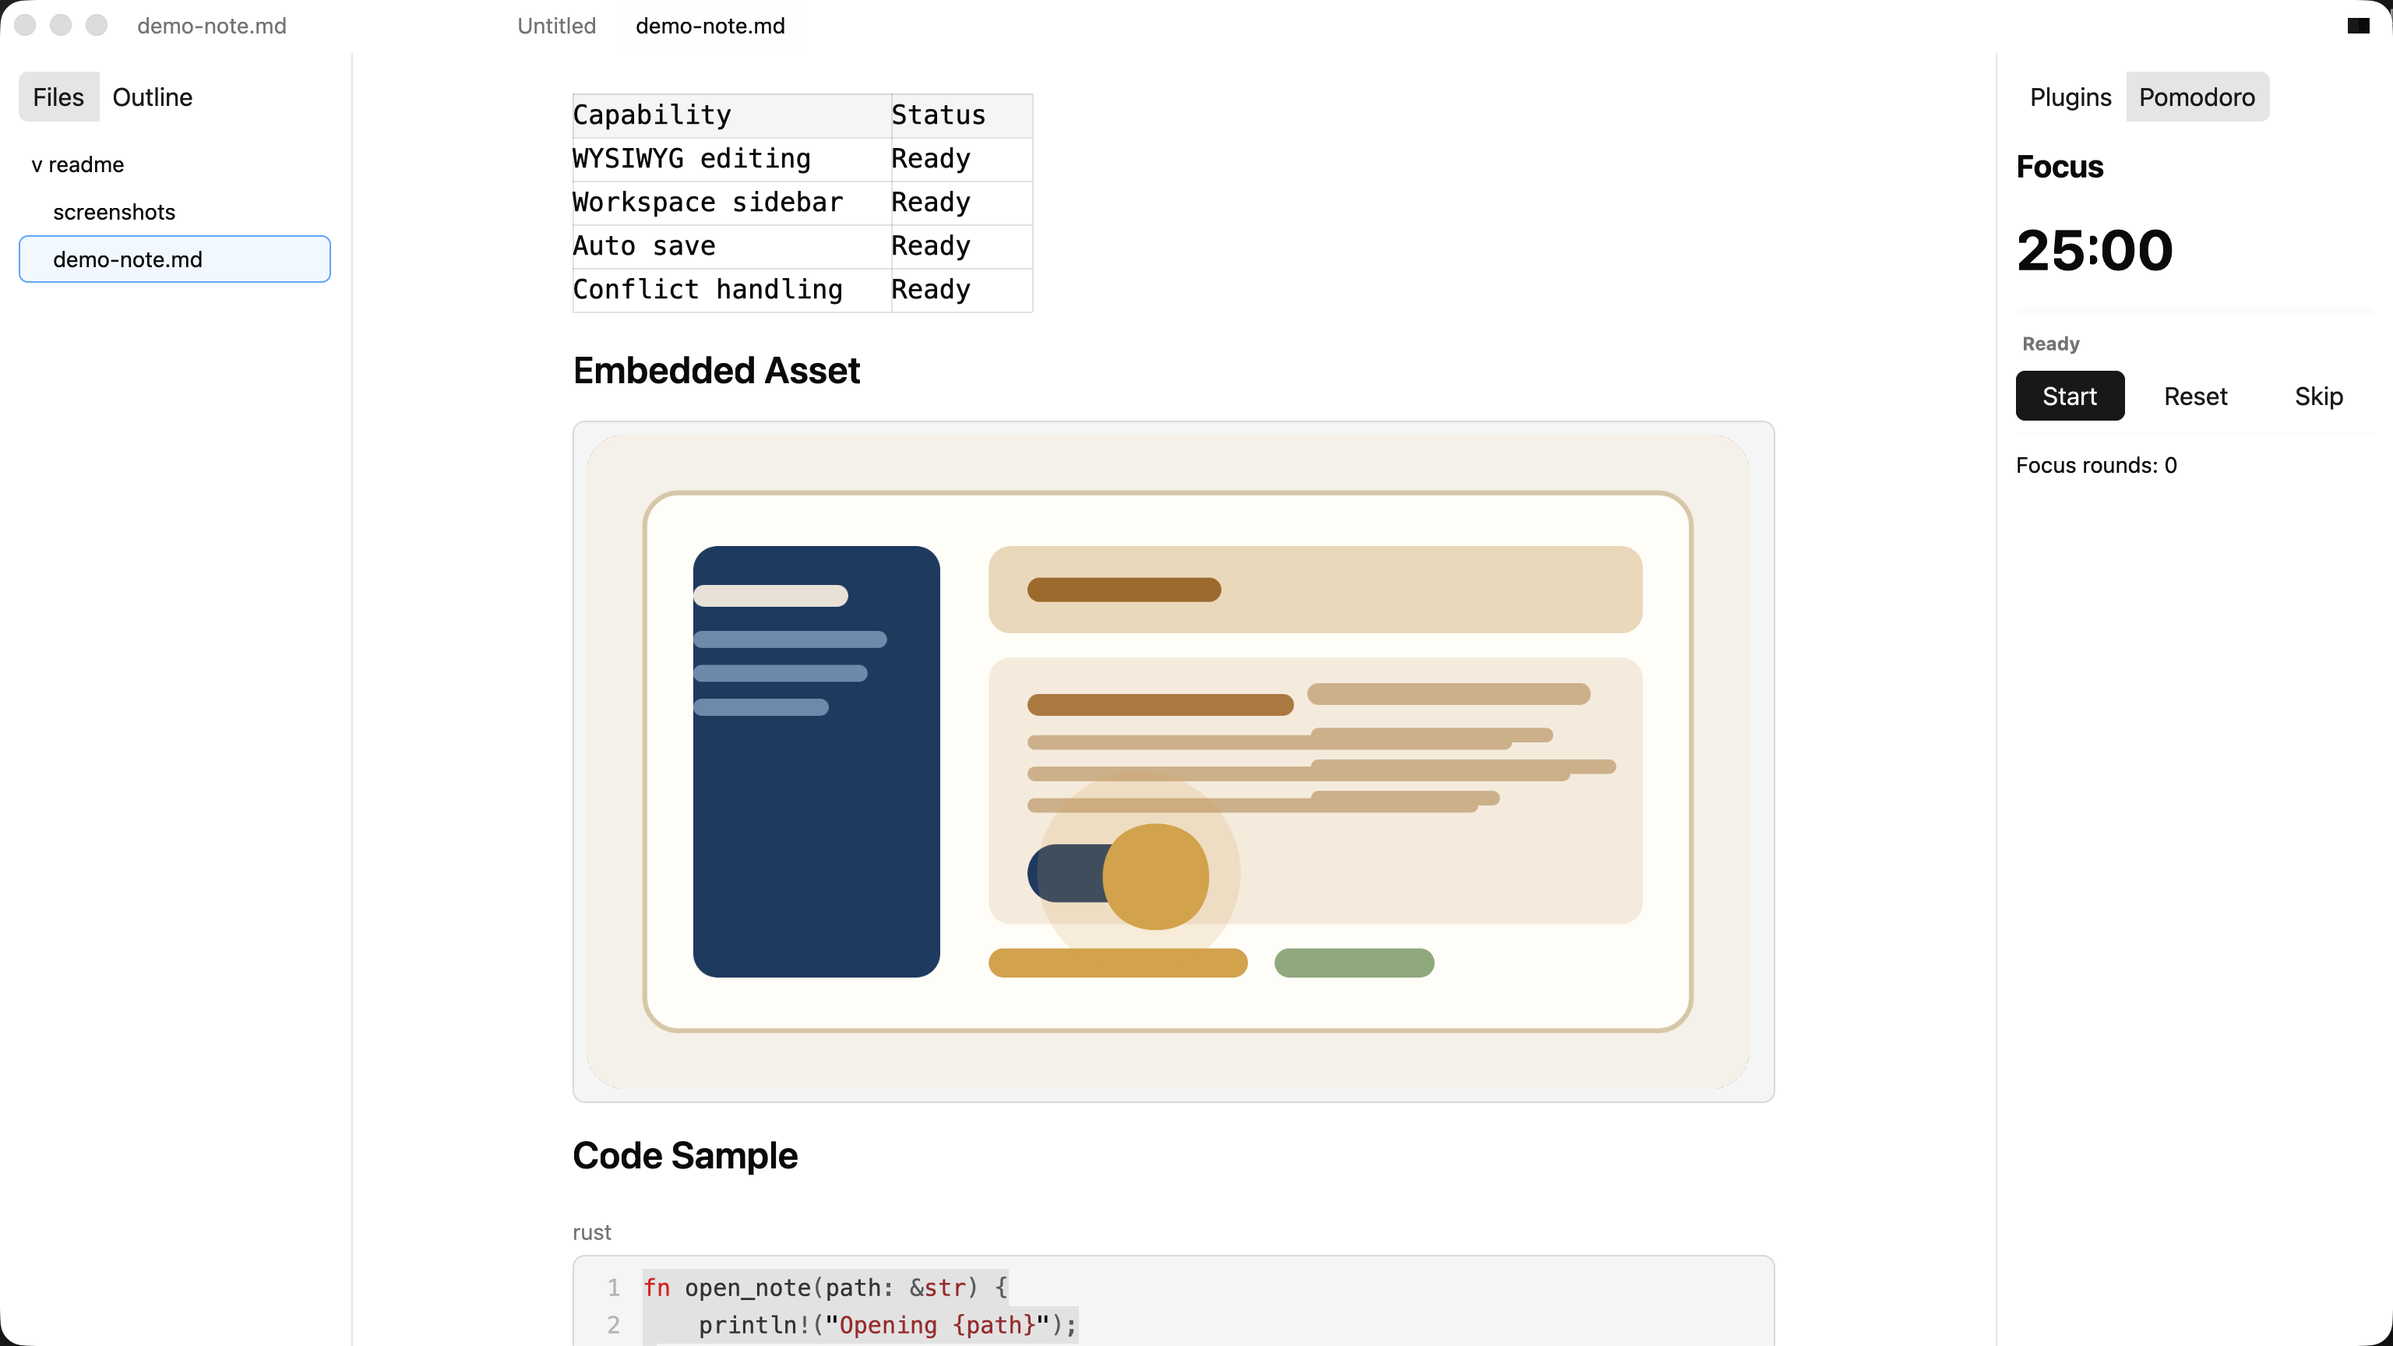
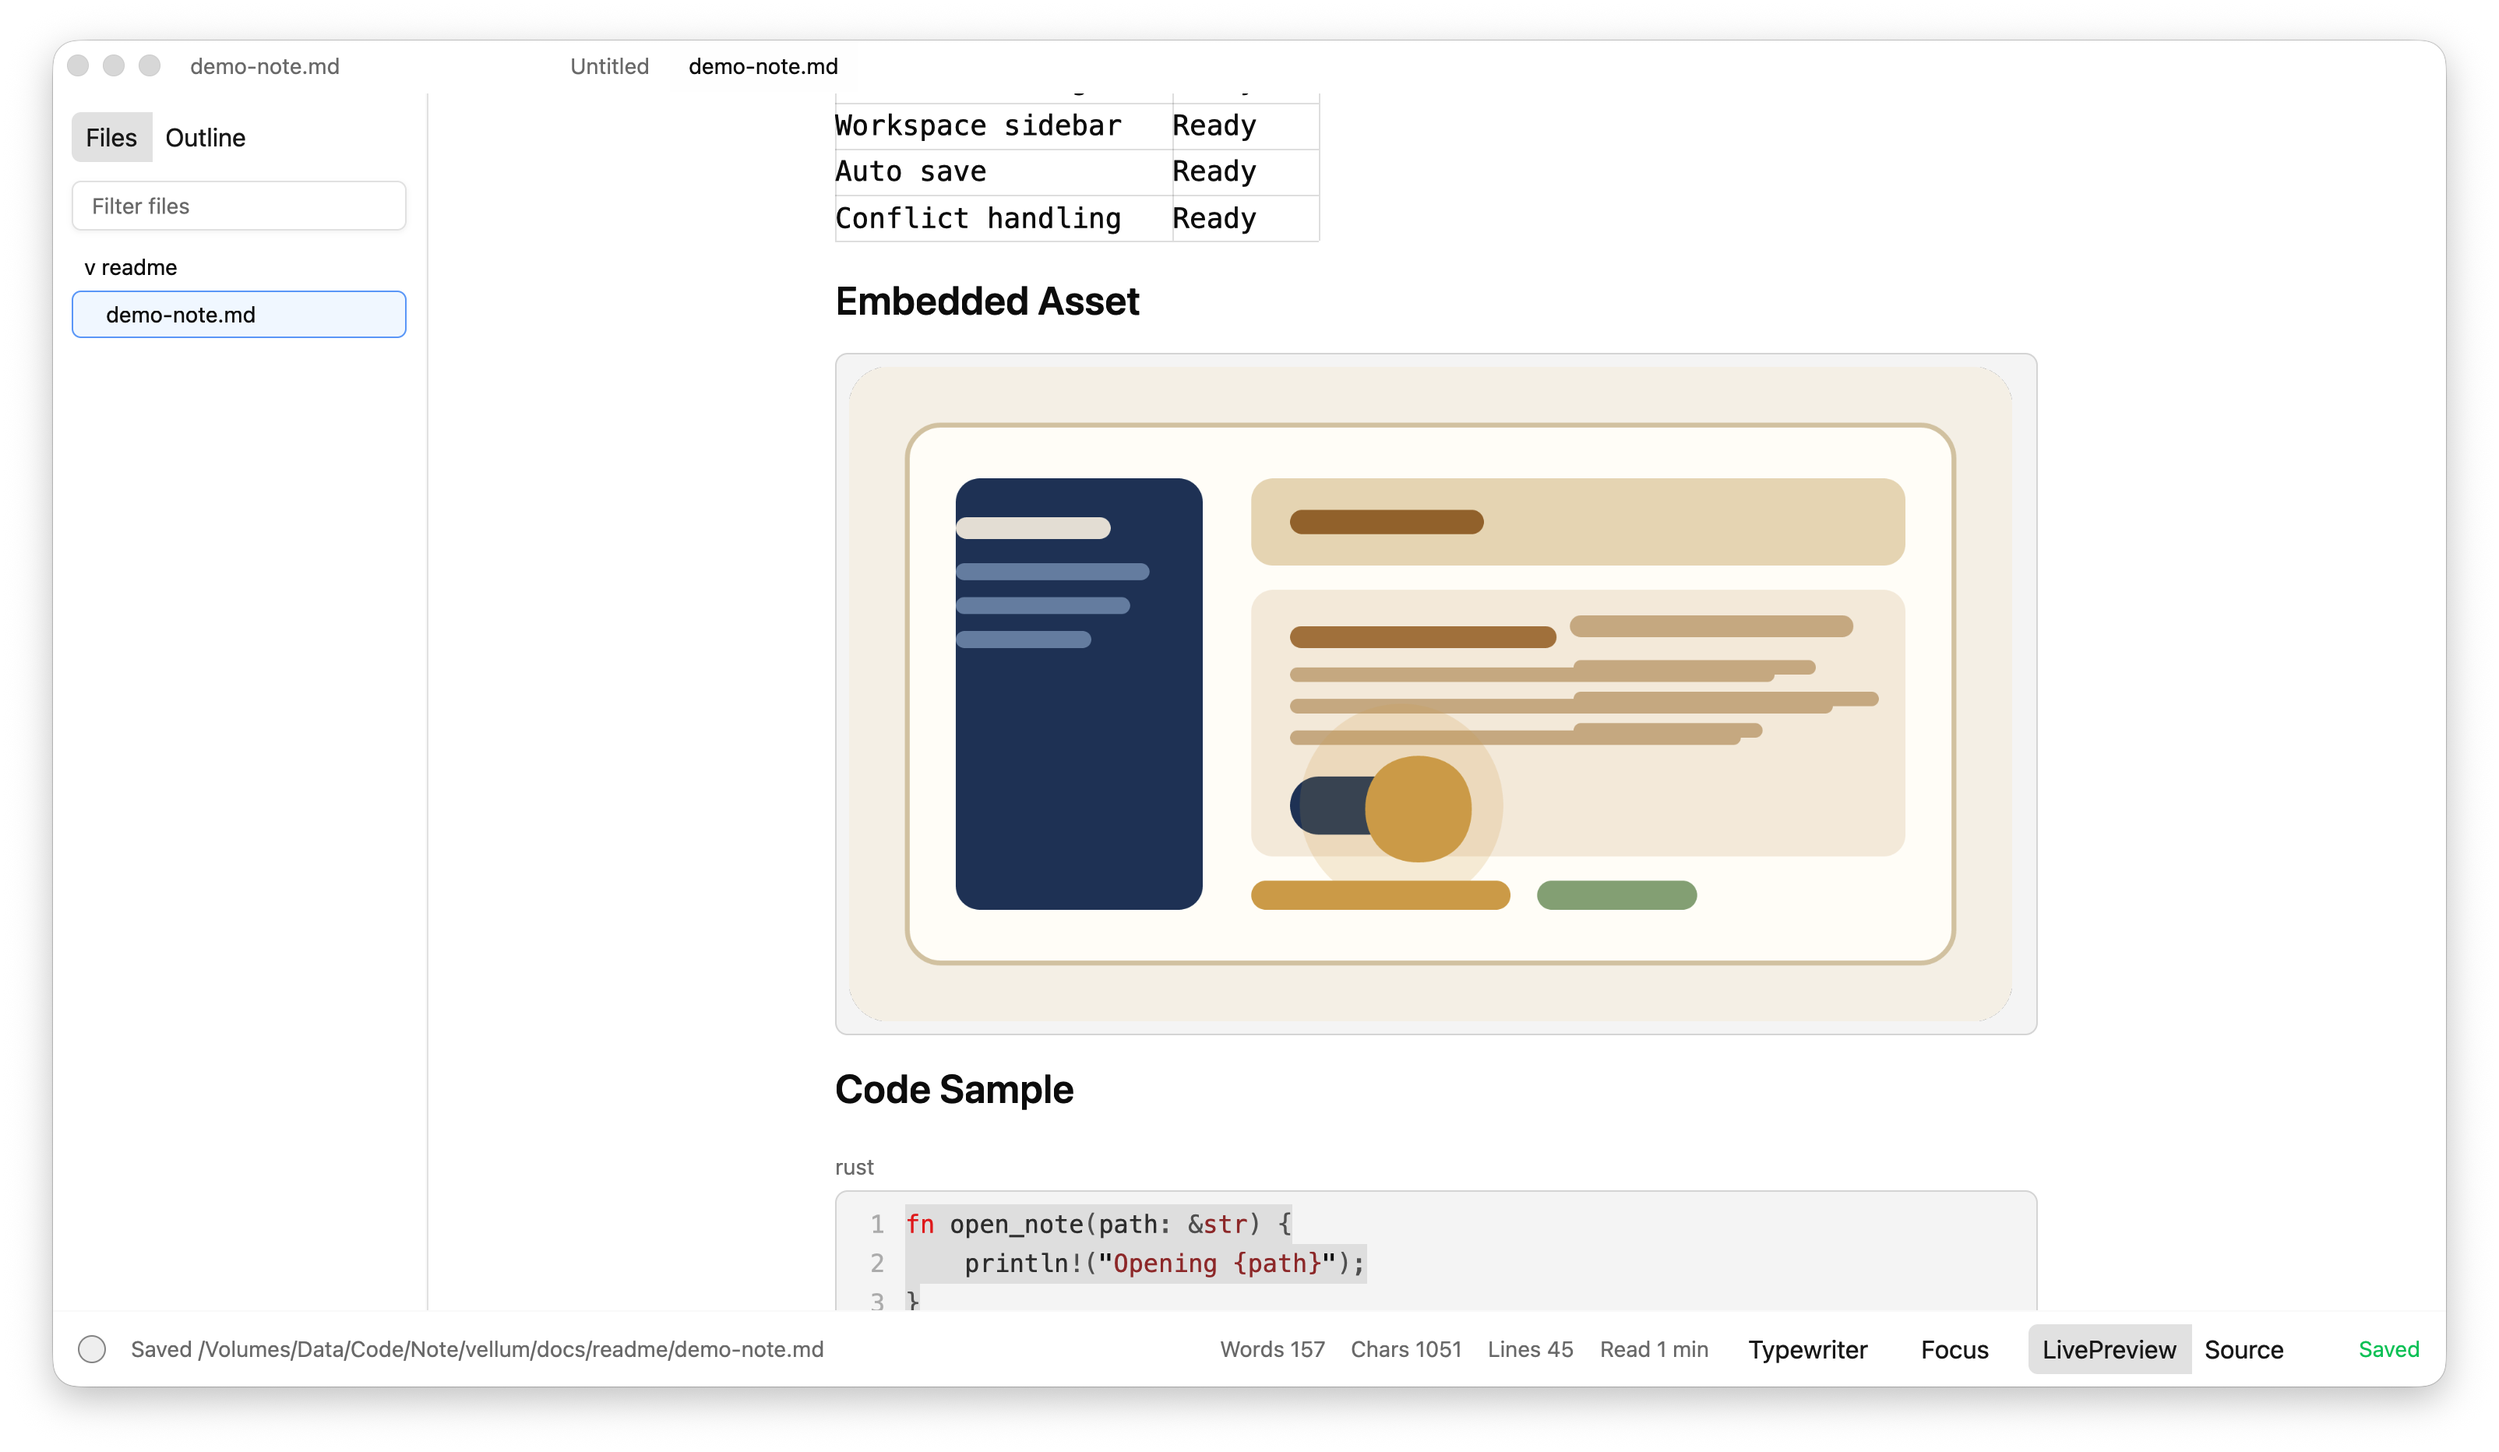
fix(editor): ignore trailing separator in code line count

diff --git a/crates/editor/src/ui/surface.rs b/crates/editor/src/ui/surface.rs
@@ -785,6 +785,10 @@ pub(super) fn rendered_text_for_block(block: &RenderBlock) -> String {
         .collect()
 }
 
+fn rendered_line_count_for_block(block: &RenderBlock) -> usize {
+    rendered_text_for_block(block).lines().count().max(1)
+}
+
 const VIRTUAL_RENDER_MIN_BLOCKS: usize = 20;
 const VIRTUAL_RENDER_OVERDRAW_PX: f32 = 400.;
 
@@ -1265,7 +1269,7 @@ fn render_display_block(
             .into_any_element(),
         BlockKind::List => text_area,
         BlockKind::SourceCode => {
-            let line_count = block.visible_text.lines().count().max(1);
+            let line_count = rendered_line_count_for_block(block);
             let line_number_width = format!("{}", line_count).len().max(2);
             let gutter_width = line_number_width as f32 * 8.0 + 16.0;
 
@@ -1300,7 +1304,7 @@ fn render_display_block(
                 .into_any_element()
         }
         BlockKind::CodeFence { language } => {
-            let line_count = block.visible_text.lines().count().max(1);
+            let line_count = rendered_line_count_for_block(block);
             let line_number_width = format!("{}", line_count).len().max(2);
             let gutter_width = line_number_width as f32 * 8.0 + 16.0;
 
@@ -6656,15 +6660,15 @@ mod tests {
         footnote_preview, front_matter_edit_cursor_offset, front_matter_preview_entries,
         image_edit_cursor_offset, looks_like_image_uri, mermaid_edit_cursor_offset,
         mermaid_graph_direction, parse_html_image_preview, parse_mermaid_preview,
-        parse_metadata_preview_entry, resolve_image_source, selection_touches_render_block,
-        should_render_footnote_preview,
+        parse_metadata_preview_entry, rendered_line_count_for_block, rendered_text_for_block,
+        resolve_image_source, selection_touches_render_block, should_render_footnote_preview,
         should_render_front_matter_preview, should_render_html_image_preview,
         should_render_image_preview, should_render_mermaid_preview, should_render_toc_preview,
         toc_edit_cursor_offset, word_range_at_visible_offset,
     };
     use crate::{
-        BlockKind, EmbeddedNodeKind, RenderBlock, RenderInlineStyle, RenderSpan, RenderSpanKind,
-        RenderSpanMeta,
+        BlockKind, DisplayMap, DocumentBuffer, EmbeddedNodeKind, HiddenSyntaxPolicy, RenderBlock,
+        RenderInlineStyle, RenderSpan, RenderSpanKind, RenderSpanMeta,
     };
     use std::path::{Path, PathBuf};
 
@@ -6749,6 +6753,22 @@ mod tests {
             }),
             source_hash: 0,
         }
+    }
+
+    #[test]
+    fn code_fence_line_count_ignores_trailing_block_separator() {
+        let code = "fn open_note(path: &str) {\n    println!(\"Opening {path}\");\n}\n";
+        let doc = DocumentBuffer::from_text(format!("```rust\n{code}```\n\n## Search Targets"));
+        let map = DisplayMap::from_document(&doc, None, HiddenSyntaxPolicy::SelectionAware);
+        let block = map
+            .blocks
+            .iter()
+            .find(|block| matches!(block.kind, BlockKind::CodeFence { .. }))
+            .expect("code fence block");
+
+        assert_eq!(block.visible_text.lines().count(), 5);
+        assert_eq!(rendered_text_for_block(block), code);
+        assert_eq!(rendered_line_count_for_block(block), 3);
     }
 
     fn toc_block() -> RenderBlock {
